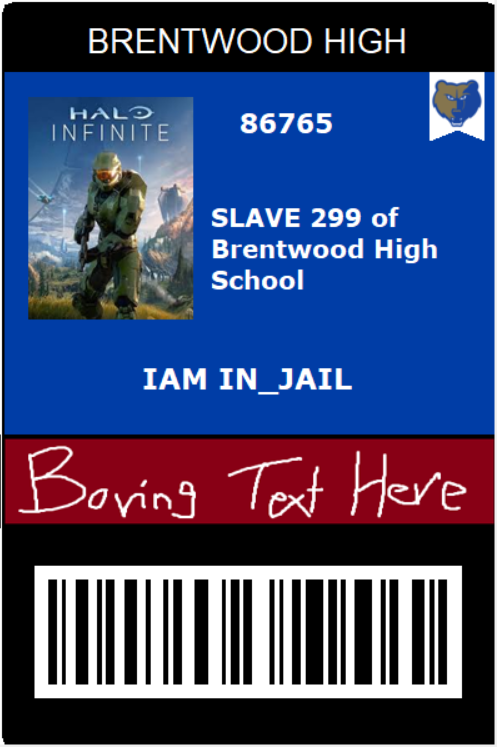
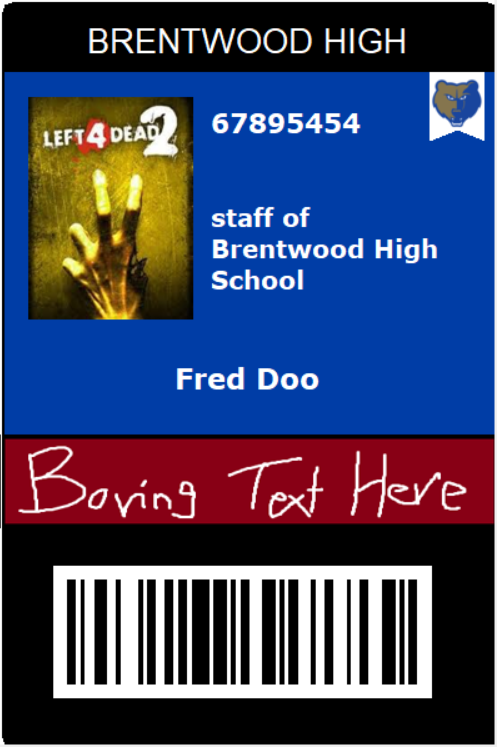
serungenionoesfacil

diff --git a/click_here.py b/click_here.py
@@ -7,18 +7,20 @@ from PIL import Image, ImageWin
 import win32print
 import win32ui
 
-id_vl = 86765
+id_vl_ii = 86765
 
-printing_class = "SLAVE 299"
-id_print = "86765"
-name_print = "IAM"
-lastn_print = "IN_JAIL"
-class print_class:
+printing_class_ii = "SLAVE 299"
+id_print_ii = "86765"
+name_print_ii = "IAM"
+lastn_print_ii = "IN_JAIL"
+class print_class(tk.Label):
     def __init__(self, root):
+        super().__init__(root) #superclass in a subclass.
+        
         root.overrideredirect(True) 
         self.root = root
         
-        self.root.geometry("200x40") # width x height + X coordinate + Y coordinate
+        self.root.geometry("200x30") # width x height + X coordinate + Y coordinate
         self.root.resizable(width =False, height =False)
         root.attributes("-topmost", True)
         
@@ -30,26 +32,29 @@ class print_class:
         y = (root.winfo_screenheight() - root.winfo_reqheight()) / 2
         root.geometry("+%d+%d" % (x, y))
         
-        self.edit_canvas(id_vl, printing_class, id_print, name_print, lastn_print)
     #_________________________________________FUNCTIONS(out of INIT)_________________________________________#
     
     
     def save_as_png(self):
-        Label(root, text="PRINTING DATA...", font =('courier', 15, 'bold'), bd =7, fg='white', bg='black').pack()
+        label = Label(self.root , text="PRINTING DATA...", font =('courier', 15, 'bold'), fg='white', bg='black')
+        label.grid(row=0, column=0)
+        label.update_idletasks() #siendo inteligente
+        
         self.file = "C:/prctm_dog/canvas.png"
         ImageGrab.grab().crop((713, 168, 1210, 915)).save(self.file)
         
         
-    def edit_canvas(self, id_vl, printing_class, id_print, name_print, lastn_print):
+    def edit_canvas(self, id_vl_ii, printing_class_ii, id_print_ii, name_print_ii, lastn_print_ii):
 
-        self.id_vl = id_vl
-        self.printing_class = printing_class
-        self.id_print = id_print
-        self.name_print = name_print
-        self.lastn_print = lastn_print
+        self.id_vl_ii = id_vl_ii
+        self.printing_class_ii = printing_class_ii
+        self.id_print_ii = id_print_ii
+        self.name_print_ii = name_print_ii
+        self.lastn_print_ii = lastn_print_ii
 
         window_canvas = Toplevel(self.root)
         window_canvas.overrideredirect(True)
+        self.root.attributes("-topmost", True)
         screen_width = self.root.winfo_screenwidth()
         screen_height = self.root.winfo_screenheight()
         
@@ -62,17 +67,17 @@ class print_class:
         try:
             self.canvitas.setup_gamer()
             #editar esto para poner las variables
-            self.canvitas.info(self.printing_class, self.id_vl, self.name_print, self.lastn_print)
+            self.canvitas.info(self.printing_class_ii, self.id_vl_ii, self.name_print_ii, self.lastn_print_ii)
             
         except Exception as e:
             print(f"No se que le pasa :(\n{e}")
             
        
         self.root.after(3000, self.save_as_png)
-        self.root.after(6000, root.deiconify)
+        self.root.after(6000, self.root.deiconify)
         self.root.after(9000, self.print_funct)
-        root.withdraw()
-        self.root.after(12000, root.destroy)
+        self.root.withdraw()
+        self.root.after(12000, self.root.destroy)
         #habia que sumar el timempo, eso es nuevo
       
     def print_funct(self):
@@ -136,6 +141,7 @@ class print_class:
 if __name__ == "__main__":
     root = tk.Tk()
     application = print_class(root)
+    application.edit_canvas(id_vl_ii, printing_class_ii, id_print_ii, name_print_ii, lastn_print_ii)
     root.mainloop()
 
 

diff --git a/bar_code.py b/bar_code.py
@@ -16,14 +16,14 @@ from click_here import print_class
 id_vl = 86765
 state_action = False
 
-class_print = "prisioner"
+printing_class = "prisioner"
 id_print = "69696969"
 name_print = "i am"
 lastn_print = "in jail"
    
 class barcode_class:
     print("bar_code.py is working")
-    def __init__(self, root, id_vl, state_action, class_print, id_print, name_print, lastn_print):
+    def __init__(self, root, id_vl, state_action, printing_class, id_print, name_print, lastn_print):
         
         root.overrideredirect(True)
         style = ttk.Style()
@@ -34,7 +34,7 @@ class barcode_class:
         self.root = root 
         self.id_vl = id_vl
 
-        self.class_print = class_print
+        self.printing_class = printing_class
         self.id_print = id_print
         self.name_print = name_print
         self.lastn_print = lastn_print
@@ -67,7 +67,7 @@ class barcode_class:
         #_______________________________________________________________________________________________________#
             #182x228y
         code = Frame(BarFrame, width =400, height =125, bg = '#1f1f1f') 
-        code.pack()
+        code.grid(row =0, column =0)
         #photo frame
         
         canvas = tkinter.Canvas(code, background = 'black', width=385, height=120) # problema si introduces directamente esto: image= frame_image
@@ -177,8 +177,16 @@ class barcode_class:
         #_______________________________________________________________________________________________________#
         
         def print_canvass():
+            id_vl_ii = self.id_vl
+            printing_class_ii = self.printing_class
+            id_print_ii = self.id_print
+            name_print_ii = self.name_print
+            lastn_print_ii = self.lastn_print
+            
             click_here_window = Toplevel(self.root)
             click_here_window.overrideredirect(True)
+            canva_screen = print_class(click_here_window)
+            canva_screen.edit_canvas(id_vl_ii, printing_class_ii, id_print_ii, name_print_ii, lastn_print_ii)
             screen_width = self.root.winfo_screenwidth()
             screen_height = self.root.winfo_screenheight()
             
@@ -186,11 +194,11 @@ class barcode_class:
             y = (screen_height - 600) // 2
             click_here_window.geometry("%dx%d+%d+%d" % (400, 600, x, y))
 
-            self.imprimiendo = class_print(click_here_window)
+            self.imprimiendo = print_class(click_here_window)
         #_______________________________________________________________________________________________________#
         
         self.image_path= PhotoImage(file="C:/prctm_dog/images/printer-24.png") 
-        self.btnChange= Button(LeftFrame,text= "click", image=self.image_path, bg= '#1f1f1f', fg= 'green', borderwidth=0, command= print_canvass, cursor='hand2'). pack(side =LEFT, padx =6)
+        self.btnChange= Button(LeftFrame,text= "click", image=self.image_path, bg= '#1f1f1f', fg= 'green', borderwidth=0, command= print_canvass, cursor='hand2').grid(row=0, column=0, padx=6, pady=6)
         #_______________________________________________________________________________________________________#
         
         image_barcode()
@@ -200,7 +208,7 @@ class barcode_class:
 if __name__=='__main__':
     root = Tk()
     #para obtener la info y editar el canvas para imprimir (por si no me acuerdo)
-    aplication = barcode_class(root, id_vl, state_action, class_print, id_print, name_print, lastn_print)
+    aplication = barcode_class(root, id_vl, state_action, printing_class, id_print, name_print, lastn_print)
     #aplication.get_Image()
     root.mainloop()
 

diff --git a/print_ident_color.py b/print_ident_color.py
@@ -54,7 +54,7 @@ class class_print:
         self.canvas.create_rectangle(4,425,399,599, fill= 'black', width=0)
 
         self.image_barcode = tk.PhotoImage(file="C:/prctm_dog/barcode.png")
-        self.canvas.create_image((30, 455), image=self.image_barcode, anchor='nw')
+        self.canvas.create_image((45, 455), image=self.image_barcode, anchor='nw')
 
     #___________________________________________________FRAME_____________________________________________________#  
     def round_rectangle(self,x1, y1, x2, y2, radius=25, **kwargs):
